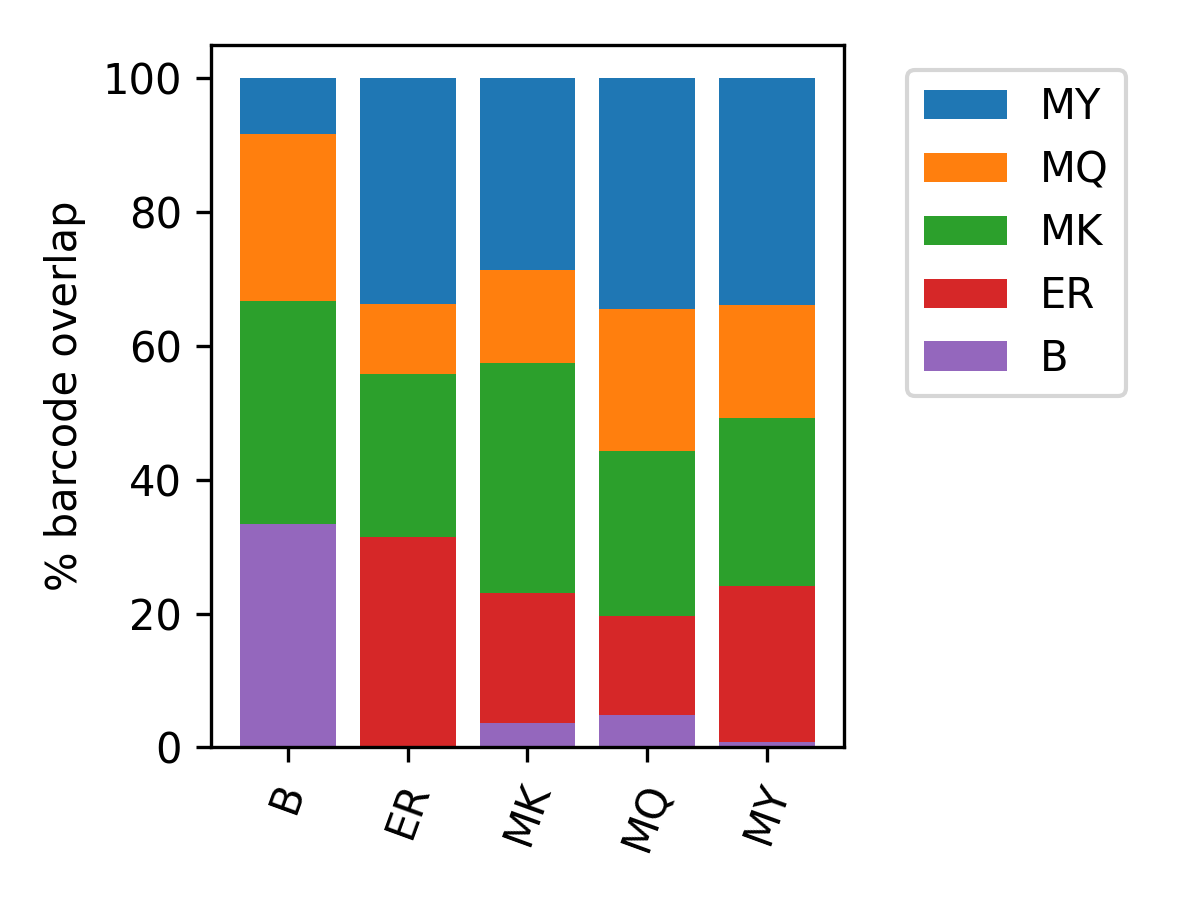
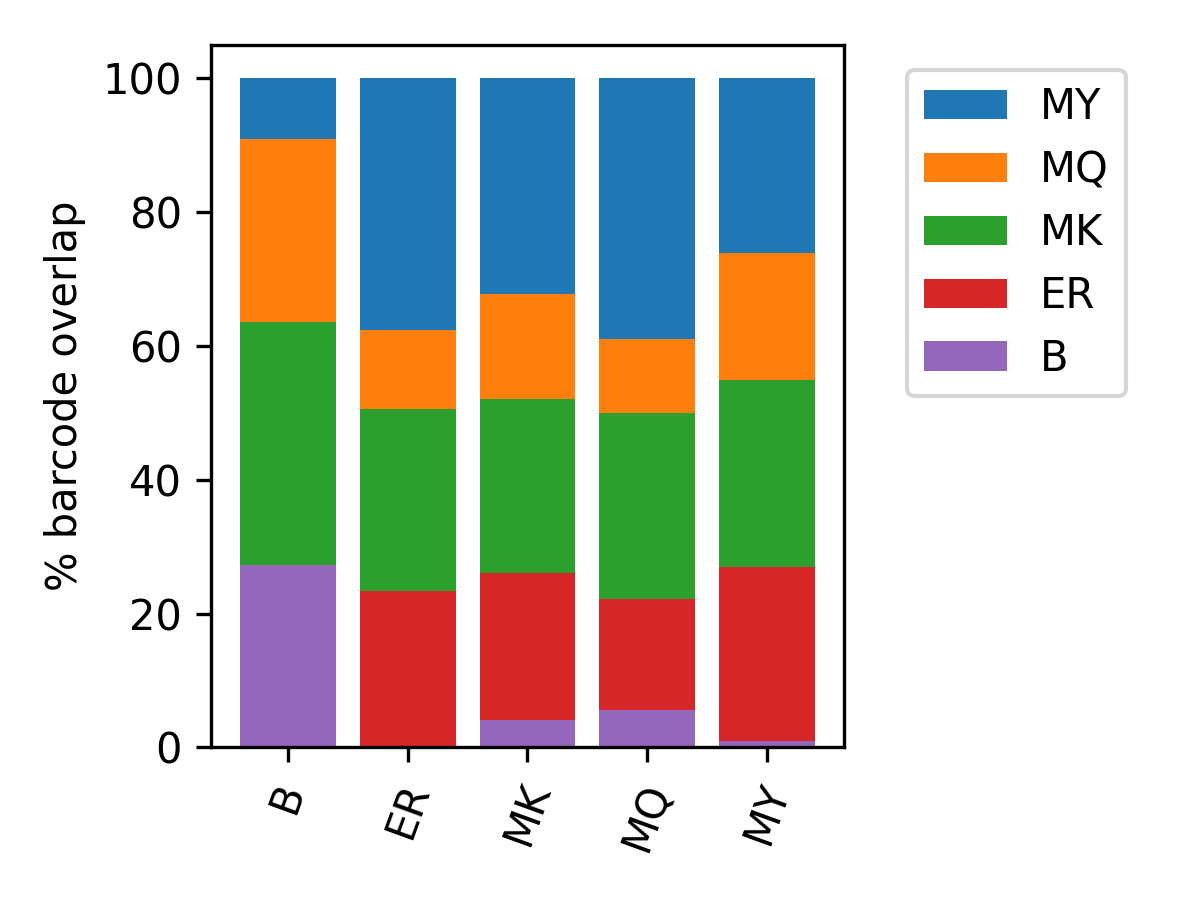
bug fix in calc_pairwise_overlap

diff --git a/bartide/batch_analyzer.py b/bartide/batch_analyzer.py
@@ -83,7 +83,7 @@ class BarcodeAnalyzer:
                     if corrected:
                         overlap[i][j] = overlap[i][j] / ((df[i] + df[j]) > 0).sum()
                 else:
-                    overlap[i][j] = ((df[i] > 0) & (df.sum(axis=1))).sum()
+                    overlap[i][j] = ((df[i] > 0) & (df.sum(axis=1) == 1)).sum()
                     if corrected:
                         overlap[i][j] = 1
         return pd.DataFrame(overlap)
